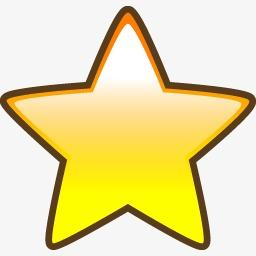
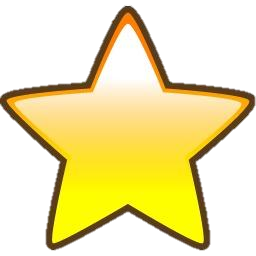
【更新】增加应用图标悬浮显示收藏情况；优化图标。

diff --git a/bookmarkHelper/background.js b/bookmarkHelper/background.js
@@ -2,6 +2,18 @@ tabs = {};
 tabIds = [];
 bookmarkMap = {};
 
+function brief(s, length) {
+    length = length || 18;
+    if (length < 5) {
+        length = 5;
+    }
+    if (s.length > length) {
+        return s.substr(0, length - 3) + '...';
+    } else {
+        return s;
+    }
+}
+
 function loadWindowList() {
     chrome.windows.getAll({populate: true}, function (windowList) {
         tabs = {};
@@ -17,10 +29,27 @@ function loadWindowList() {
         for (var i = 0; i < tabIds.length; i++) {
             (function (i) {
                 chrome.tabs.get(tabIds[i], function (tab) {
-                    if (bookmarkMap[normalizeUrl(tab.url)]) {
+                    var items = bookmarkMap[normalizeUrl(tab.url)];
+                    if (items) {
                         chrome.pageAction.show(tabIds[i]);
+                        var markInfo = items.length > 1 ? '【已收藏多个！】' : '【已收藏】';
+                        if (items.length > 2) {
+                            items = items.slice(0, 2);
+                        }
+                        var title = '智能书签识别\n' + markInfo + '\n';
+                        for (var j = 0; j < items.length; j++) {
+                            var item = items[j];
+                            var itemInfo = '';
+                            for (var k = 0; k < item.parents.length; k++) {
+                                itemInfo += '/' + item.parents[k];
+                            }
+                            itemInfo += '/\n' + brief(item.title) + '\n';
+                            title += itemInfo;
+                        }
+                        chrome.pageAction.setTitle({tabId: tabIds[i], title: title});
                     } else {
                         chrome.pageAction.hide(tabIds[i]);
+                        chrome.pageAction.setTitle({tabId: tabIds[i], title: '智能书签识别\n【当前网页未收藏】'});
                     }
                 });
             })(i);
@@ -52,13 +81,28 @@ function normalizeUrl(url) {
     return url;
 }
 
-function loadBookmarksTree(nodes) {
+function loadBookmarksTree(nodes, parentTitles) {
+    parentTitles = parentTitles || [];
     for (var i = 0; i < nodes.length; i++) {
         var node = nodes[i];
         if (node.url) {
-            bookmarkMap[normalizeUrl(node.url)] = 1;
+            var item = {
+                parents: parentTitles,
+                title: node.title,
+                url: node.url
+            };
+            var key = normalizeUrl(node.url);
+            var items = bookmarkMap[key];
+            if (!items) {
+                bookmarkMap[key] = [item];
+            } else {
+                items.push(item);
+            }
         } else if (node.children) {
-            loadBookmarksTree(node.children);
+            var newTitles = [];
+            newTitles.push.apply(newTitles, parentTitles);
+            newTitles.push(node.title);
+            loadBookmarksTree(node.children, newTitles);
         }
     }
 }
